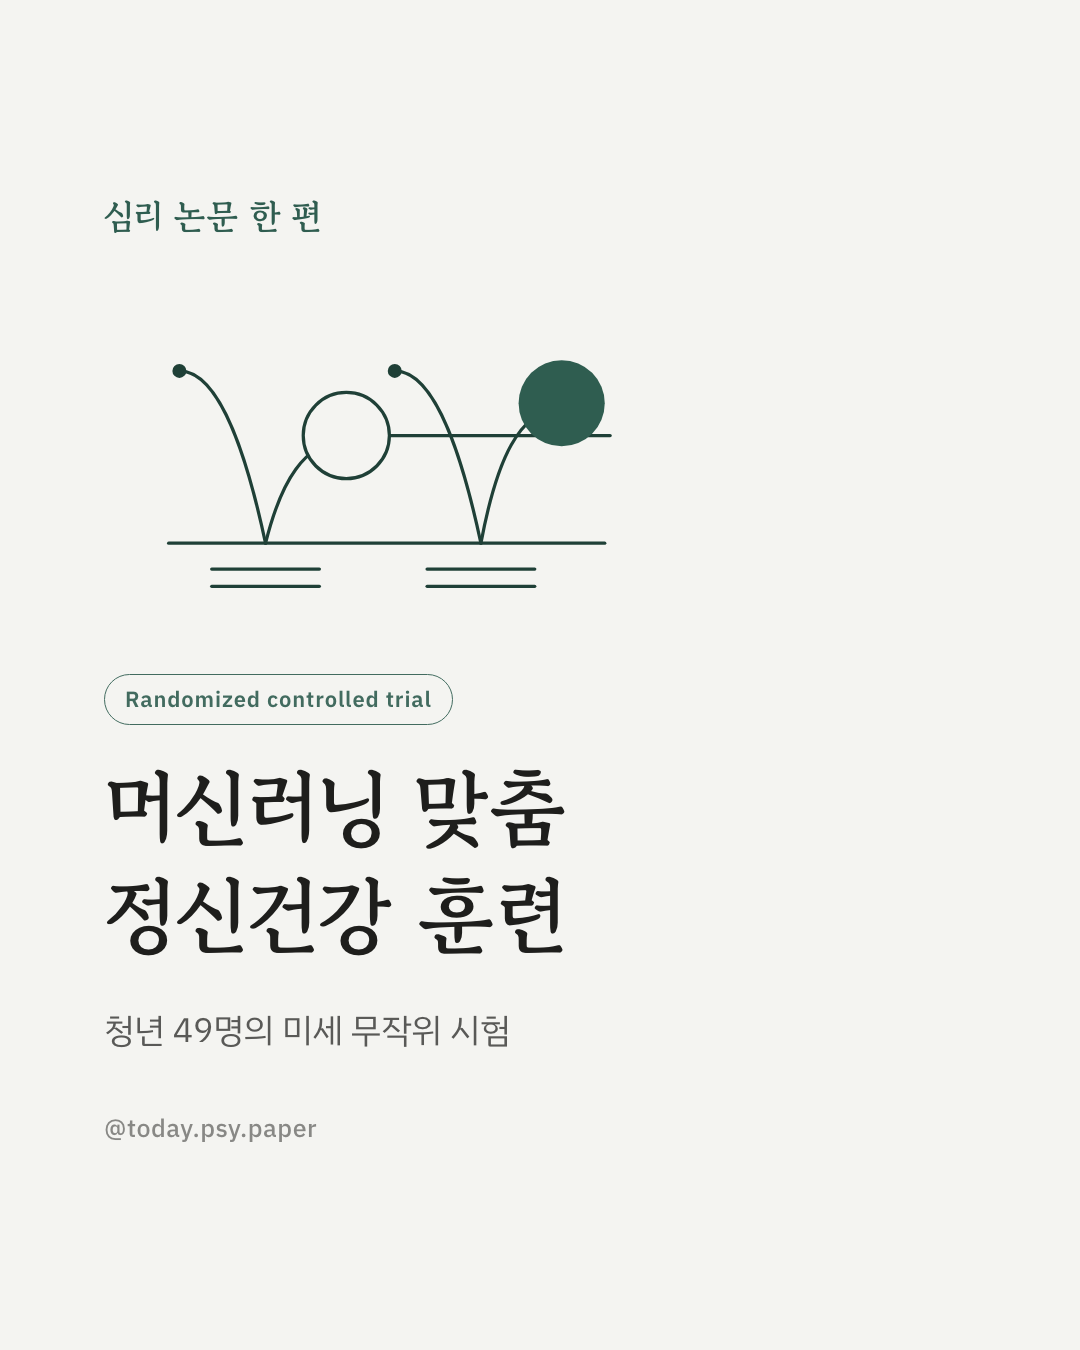
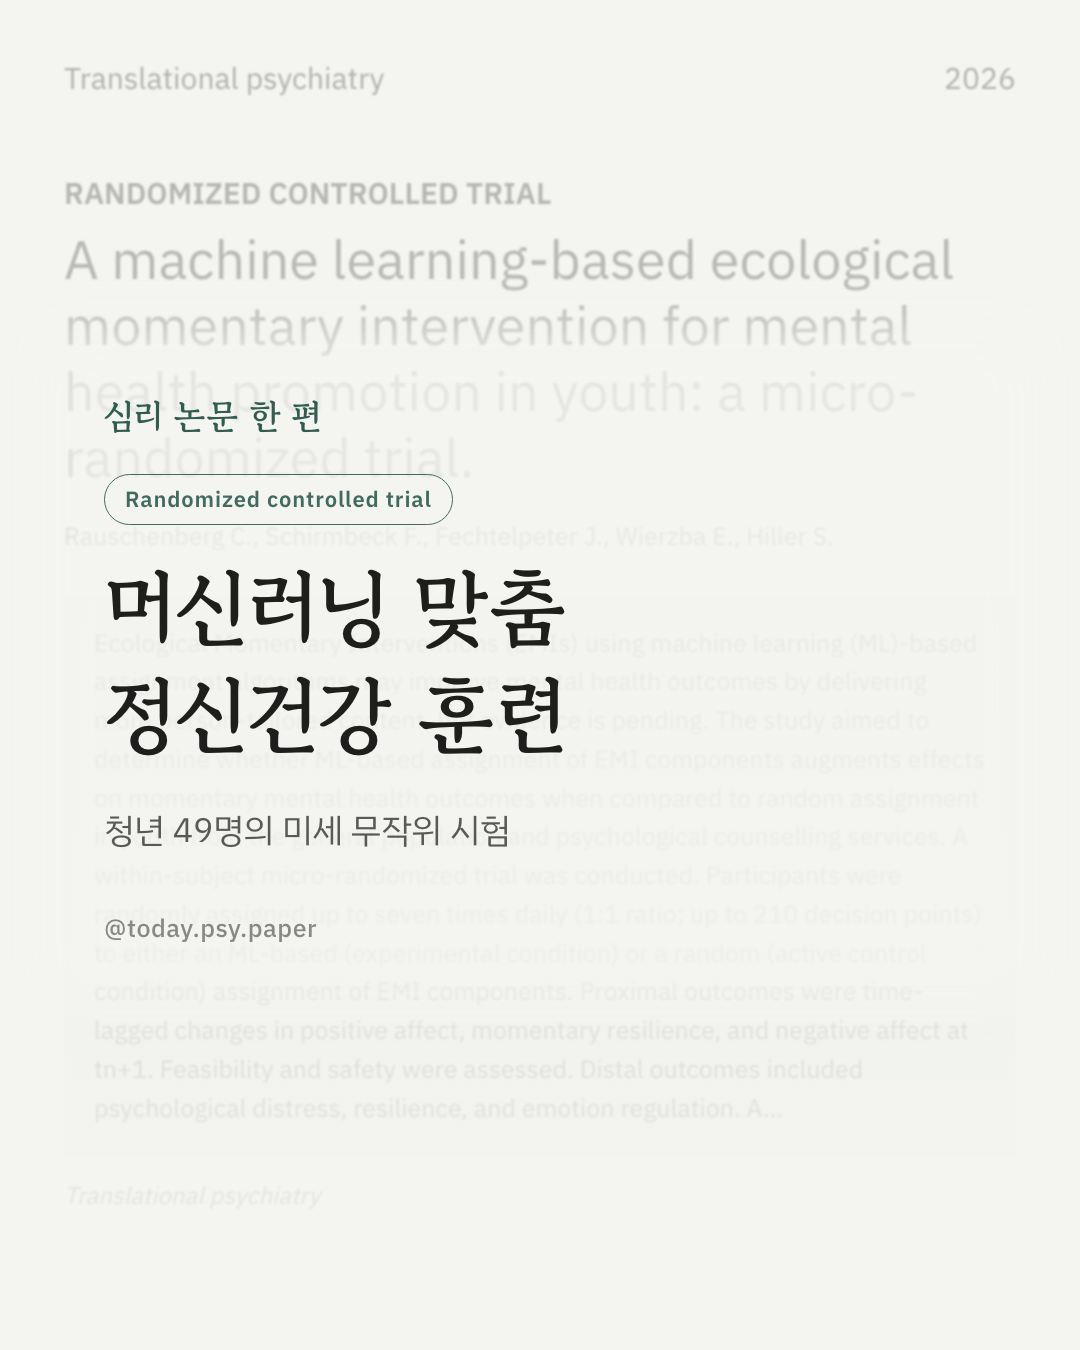
cards: reel posted via app 42766476

diff --git a/index.html b/index.html
@@ -9,4 +9,4 @@ a{font-size:18px;color:#8a3c24;text-decoration:none;display:block}
 .reel{background:#efe5d3;border:1px solid #e4d8c2;border-radius:8px;padding:12px 14px;margin-bottom:16px;font-size:14px}
 .reel a{display:inline;font-size:14px}
 code{background:#efe5d3;padding:2px 6px;border-radius:4px;user-select:all}</style></head><body>
-<h1>검수 대기열 (7)</h1><div class="reel">🎬 릴스 초안 대기 — <a href="20668659/reel.html">20668659 영상 보기</a> · 폰 앱에서 업로드(트렌딩 사운드)</div><div class="reel">🎬 릴스 초안 대기 — <a href="42168586/reel.html">42168586 영상 보기</a> · 폰 앱에서 업로드(트렌딩 사운드)</div><div class="reel">🎬 릴스 초안 대기 — <a href="42413809/reel.html">42413809 영상 보기</a> · 폰 앱에서 업로드(트렌딩 사운드)</div><div class="reel">🎬 릴스 초안 대기 — <a href="42581396/reel.html">42581396 영상 보기</a> · 폰 앱에서 업로드(트렌딩 사운드)</div><div class="reel">🎬 릴스 초안 대기 — <a href="42766476/reel.html">42766476 영상 보기</a> · 폰 앱에서 업로드(트렌딩 사운드)</div><div class="reel">🎬 릴스 초안 대기 — <a href="42778581/reel.html">42778581 영상 보기</a> · 폰 앱에서 업로드(트렌딩 사운드)</div><div class="reel">🎬 릴스 초안 대기 — <a href="42800797/reel.html">42800797 영상 보기</a> · 폰 앱에서 업로드(트렌딩 사운드)</div><ul><li><a href="20668659/preview.html">사회적 관계가<br>수명과 이어졌다</a><span class="m">흥미기타 · 9장 · <a href="https://pubmed.ncbi.nlm.nih.gov/20668659/" target="_blank" rel="noopener">PubMed</a> · <a href="https://doi.org/10.1371/journal.pmed.1000316" target="_blank" rel="noopener">원문(DOI)</a> · <code>python3 publish.py 20668659</code></span></li><li><a href="42168586/preview.html">거식증 뇌 부피<br>석 달 뒤 회복</a><span class="m">신경영상 · 9장 · <a href="https://pubmed.ncbi.nlm.nih.gov/42168586/" target="_blank" rel="noopener">PubMed</a> · <a href="https://doi.org/10.1038/s41386-026-02435-w" target="_blank" rel="noopener">원문(DOI)</a> · <code>python3 publish.py 42168586</code></span></li><li><a href="42581396/preview.html">우울증 자기 자극<br>개인 맞춤 위치</a><span class="m">임상심리 · 10장 · <a href="https://pubmed.ncbi.nlm.nih.gov/42581396/" target="_blank" rel="noopener">PubMed</a> · <a href="https://doi.org/10.1176/appi.ajp.20251084" target="_blank" rel="noopener">원문(DOI)</a> · <code>python3 publish.py 42581396</code></span></li><li><a href="42766476/preview.html">실제 진료실에서 한<br>노출치료의 효과</a><span class="m">임상심리 · 9장 · <a href="https://pubmed.ncbi.nlm.nih.gov/42766476/" target="_blank" rel="noopener">PubMed</a> · <a href="https://doi.org/10.1080/20008066.2026.2699492" target="_blank" rel="noopener">원문(DOI)</a> · <code>python3 publish.py 42766476</code></span></li><li><a href="42778581/preview.html">덜 힘들었던<br>사람들의 뇌</a><span class="m">신경영상 · 10장 · <a href="https://pubmed.ncbi.nlm.nih.gov/42778581/" target="_blank" rel="noopener">PubMed</a> · <a href="https://doi.org/10.1038/s41380-026-03897-6" target="_blank" rel="noopener">원문(DOI)</a> · <code>python3 publish.py 42778581</code></span></li><li><a href="42800797/preview.html">머신러닝 맞춤<br>정신건강 훈련</a><span class="m">임상심리 · 9장 · <a href="https://pubmed.ncbi.nlm.nih.gov/42800797/" target="_blank" rel="noopener">PubMed</a> · <a href="https://doi.org/10.1038/s41398-026-04475-8" target="_blank" rel="noopener">원문(DOI)</a> · <code>python3 publish.py 42800797</code></span></li><li><a href="42855842/preview.html">안전 계획 앱과<br>청소년 자해</a><span class="m">자해자살 · 10장 · <a href="https://pubmed.ncbi.nlm.nih.gov/42855842/" target="_blank" rel="noopener">PubMed</a> · <a href="https://doi.org/10.1111/jcpp.70246" target="_blank" rel="noopener">원문(DOI)</a> · <code>python3 publish.py 42855842</code></span></li></ul></body></html>
+<h1>검수 대기열 (6)</h1><div class="reel">🎬 릴스 초안 대기 — <a href="20668659/reel.html">20668659 영상 보기</a> · 폰 앱에서 업로드(트렌딩 사운드)</div><div class="reel">🎬 릴스 초안 대기 — <a href="42168586/reel.html">42168586 영상 보기</a> · 폰 앱에서 업로드(트렌딩 사운드)</div><div class="reel">🎬 릴스 초안 대기 — <a href="42413809/reel.html">42413809 영상 보기</a> · 폰 앱에서 업로드(트렌딩 사운드)</div><div class="reel">🎬 릴스 초안 대기 — <a href="42581396/reel.html">42581396 영상 보기</a> · 폰 앱에서 업로드(트렌딩 사운드)</div><div class="reel">🎬 릴스 초안 대기 — <a href="42778581/reel.html">42778581 영상 보기</a> · 폰 앱에서 업로드(트렌딩 사운드)</div><div class="reel">🎬 릴스 초안 대기 — <a href="42800797/reel.html">42800797 영상 보기</a> · 폰 앱에서 업로드(트렌딩 사운드)</div><ul><li><a href="20668659/preview.html">사회적 관계가<br>수명과 이어졌다</a><span class="m">흥미기타 · 9장 · <a href="https://pubmed.ncbi.nlm.nih.gov/20668659/" target="_blank" rel="noopener">PubMed</a> · <a href="https://doi.org/10.1371/journal.pmed.1000316" target="_blank" rel="noopener">원문(DOI)</a> · <code>python3 publish.py 20668659</code></span></li><li><a href="42168586/preview.html">거식증 뇌 부피<br>석 달 뒤 회복</a><span class="m">신경영상 · 9장 · <a href="https://pubmed.ncbi.nlm.nih.gov/42168586/" target="_blank" rel="noopener">PubMed</a> · <a href="https://doi.org/10.1038/s41386-026-02435-w" target="_blank" rel="noopener">원문(DOI)</a> · <code>python3 publish.py 42168586</code></span></li><li><a href="42581396/preview.html">우울증 자기 자극<br>개인 맞춤 위치</a><span class="m">임상심리 · 10장 · <a href="https://pubmed.ncbi.nlm.nih.gov/42581396/" target="_blank" rel="noopener">PubMed</a> · <a href="https://doi.org/10.1176/appi.ajp.20251084" target="_blank" rel="noopener">원문(DOI)</a> · <code>python3 publish.py 42581396</code></span></li><li><a href="42778581/preview.html">덜 힘들었던<br>사람들의 뇌</a><span class="m">신경영상 · 10장 · <a href="https://pubmed.ncbi.nlm.nih.gov/42778581/" target="_blank" rel="noopener">PubMed</a> · <a href="https://doi.org/10.1038/s41380-026-03897-6" target="_blank" rel="noopener">원문(DOI)</a> · <code>python3 publish.py 42778581</code></span></li><li><a href="42800797/preview.html">머신러닝 맞춤<br>정신건강 훈련</a><span class="m">임상심리 · 9장 · <a href="https://pubmed.ncbi.nlm.nih.gov/42800797/" target="_blank" rel="noopener">PubMed</a> · <a href="https://doi.org/10.1038/s41398-026-04475-8" target="_blank" rel="noopener">원문(DOI)</a> · <code>python3 publish.py 42800797</code></span></li><li><a href="42855842/preview.html">안전 계획 앱과<br>청소년 자해</a><span class="m">자해자살 · 10장 · <a href="https://pubmed.ncbi.nlm.nih.gov/42855842/" target="_blank" rel="noopener">PubMed</a> · <a href="https://doi.org/10.1111/jcpp.70246" target="_blank" rel="noopener">원문(DOI)</a> · <code>python3 publish.py 42855842</code></span></li></ul></body></html>
